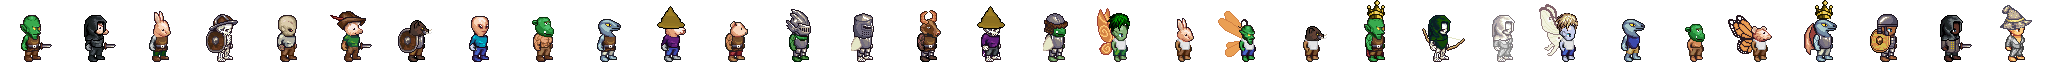
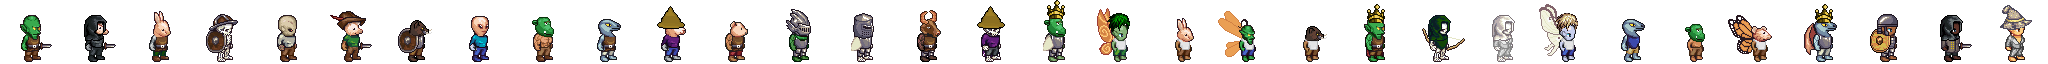
보스 왕관 위치·트롤 왕 머리 수정, 아군·몬스터 발이 바닥에 오도록 위치 조정
Claude-Session: https://claude.ai/code/session_01HhJ2NoNCjk5kaA3GWL7UDs

Changed region(s): [[0.5, 0.0938, 0.5312, 0.5], [0.875, 0.0938, 0.9062, 0.375], [0.6562, 0.0938, 0.6875, 0.375]]

diff --git a/public/index.html b/public/index.html
@@ -1918,10 +1918,10 @@ function xAI(u){   // 동료 자동 행동
 // ── 전투 화면: 도트 캔버스 (왼쪽 몬스터 · 오른쪽 파티) ──
 const XCW = 384, XCH = 216, XGLY = { sword: 'slash', axe: 'slash', dagger: 'slash', fist: 'slash', claw: 'slash', hammer: 'slash', spear: 'slash', arrow: 'slash', cross2: 'slash', paw: 'slash', fire: 'fire', fireball: 'fire', ember: 'fire', ice: 'ice', bolt: 'bolt', chain: 'bolt', star: 'holy', sun: 'holy', crown: 'holy', bell: 'holy', flag: 'holy', orb: 'dark', moon: 'dark', eye: 'dark', skull: 'dark', ghost: 'dark', drop: 'poison', bubble: 'poison', flask: 'poison', tube: 'poison', leaf: 'leaf', tree: 'leaf', flower: 'leaf', burst: 'boom', bomb: 'boom', mine: 'boom', rocket: 'boom', rock: 'boom', gear: 'boom', swirl: 'wind', cloud: 'wind', wave: 'wind', wing: 'wind', note: 'note', note1: 'note', trumpet: 'note', drum: 'note', harp: 'note', heart: 'heal', cross: 'heal', shield: 'buff', tower: 'buff', up: 'buff', clock: 'time', hourglass: 'time' };
 const xFxKind = sk => !sk ? 'slash' : sk.t === 'heal' || sk.t === 'revive' ? 'heal' : sk.t === 'buff' || sk.t === 'mp' ? 'buff' : sk.t === 'deb' ? 'debuff' : XGLY[sk.g] || 'boom';
-const XFS = [[[110, 152]], [[130, 130], [96, 178]], [[138, 118], [100, 154], [138, 190]]], XPS = [[284, 148], [322, 114], [332, 180]], XBOSS_AT = [104, 204];
+const XFS = [[[110, 152]], [[130, 134], [96, 178]], [[138, 134], [100, 160], [138, 192]]], XPS = [[282, 150], [320, 134], [332, 184]], XBOSS_AT = [104, 204];
 let xRaf = 0, xBgs = {};
 let xWpnImg = null; function xWpnSheet(){ if (!xWpnImg){ xWpnImg = new Image(); xWpnImg.src = 'art/weapons.png?v=5'; } return xWpnImg; }
-let xLpcImg = null; function xLpcSheet(){ if (!xLpcImg){ xLpcImg = new Image(); xLpcImg.src = 'art/monsters_lpc.png?v=3'; } return xLpcImg; }
+let xLpcImg = null; function xLpcSheet(){ if (!xLpcImg){ xLpcImg = new Image(); xLpcImg.src = 'art/monsters_lpc.png?v=4'; } return xLpcImg; }
 function xBg(i){   // 지역 배경: 하늘 · 먼 산 · 중간 풍경 · 땅 · 안개 (한 번만 그려 두고 계속 써요)
   if (xBgs[i]) return xBgs[i]; const R = XRG[i], c = document.createElement('canvas'); c.width = XCW; c.height = XCH; const g = c.getContext('2d'), P = R.pal, H = 122;
   const hex = h => [1, 3, 5].map(k => parseInt(h.slice(k, k + 2), 16)), mix = (a, b, t) => a.map((v, k) => Math.round(v + (b[k] - v) * t)), css = (a, al = 1) => `rgba(${a.join(',')},${al})`;

diff --git a/tools/iso/lpc/monster_lpc.py b/tools/iso/lpc/monster_lpc.py
@@ -30,7 +30,7 @@ MON = [  # (id, 몸 체형(g), 층들)
  ('skelknight', 'male', [(10, 'body/bodies/skeleton', None, None), (100, 'head/heads/skeleton/adult', None, None), (20, 'legs/armour/plate/male', None, None), (35, 'torso/armour/plate/male', None, None), (126, 'hat/helmet/greathelm/male', None, None), (95, 'shield/heater/original/paint/fg', None, None), W_SWORD]),
  ('minotaur', 'male', [(10, 'body/bodies/muscular', None, SK('fur_brown')), (100, 'head/heads/minotaur/male', None, None), (20, 'legs/armour/plate/male', None, None), (35, 'torso/armour/leather/male', None, None), W_AXE]),
  ('lich', 'male', [(5, 'cape/tattered/bg', None, CL('purple')), (10, 'body/bodies/skeleton', None, None), (100, 'head/heads/skeleton/adult', None, None), (35, 'torso/clothes/longsleeve/longsleeve', None, CL('purple')), (20, 'legs/pants', None, CL('charcoal')), (126, 'hat/magic/wizard/base', None, None), (110, 'cape/tattered/fg', None, CL('purple')), (90, 'weapon/magic/gnarled/universal/foreground', 'bronze', None)]),
- ('trollking', 'male', [(10, 'body/bodies/muscular', None, SK('pale_green')), (100, 'head/heads/troll/adult', None, None), (20, 'legs/armour/plate/male', None, None), (35, 'torso/armour/plate/male', None, None), (126, 'hat/helmet/barbarian/adult', None, None), (95, 'shield/heater/original/paint/fg', None, None), W_AXE]),
+ ('trollking', 'male', [(10, 'body/bodies/muscular', None, SK('pale_green')), (100, 'head/heads/troll/adult', None, None), (20, 'legs/armour/plate/male', None, None), (35, 'torso/armour/plate/male', None, None), (126, 'hat/formal/crown', None, None), (95, 'shield/heater/original/paint/fg', None, None), W_AXE]),
  ('fairy', 'child', [(5, 'body/wings/pixie/solid', None, None), (10, 'body/bodies/child', None, SK('pale_green')), (100, 'head/heads/human/child', None, SK('pale_green')), (105, 'eyes/human/child/default', 'green', None), (35, 'torso/clothes/shirt/child', None, CL('forest')), (20, 'legs/pants', None, CL('green')), (120, 'hair/messy1', None, HR('green')), (110, 'head/ears/elven/child', None, SK('pale_green'))]),
  ('hare', 'child', [(10, 'body/bodies/child', None, SK('fur_tan')), (100, 'head/heads/rabbit/child', None, None), (35, 'torso/clothes/shirt/child', None, CL('rose')), (20, 'legs/pants', None, CL('brown'))]),
  ('dragonfly', 'child', [(5, 'body/wings/dragonfly/solid', None, None), (10, 'body/bodies/child', None, SK('green')), (100, 'head/heads/goblin/child', None, None), (35, 'torso/clothes/shirt/child', None, CL('teal')), (20, 'legs/pants', None, CL('navy'))]),
@@ -47,6 +47,7 @@ MON = [  # (id, 몸 체형(g), 층들)
  ('shadowman', 'male', [(10, 'body/bodies/teen', None, SK('black')), (100, 'head/heads/human/male', None, SK('black')), (126, 'hat/cloth/hood', None, CL('charcoal')), (35, 'torso/jacket/trench', None, CL('black')), (20, 'legs/pants', None, CL('black')), W_DAG]),
  ('firepriest', 'female', [(10, 'body/bodies/teen', None, SK('amber')), (100, 'head/heads/human/female', None, SK('amber')), (105, 'eyes/human/adult/default', 'orange', None), (35, 'torso/clothes/robe', 'maroon', None), (126, 'hat/magic/celestial/adult', None, None), (90, 'weapon/magic/gnarled/universal/foreground', 'bronze', None)]),
 ]
+CROWN_DY = {'goblinking': 4, 'lizardking': 4}
 def frame(f):
     a = np.array(Image.open(os.path.join(LPC, f)).convert('RGBA'))
     if a.shape[0] == 512:   # 큰 무기(활)는 128칸 — 가운데 64칸만 잘라 써요
@@ -77,7 +78,10 @@ sheet = np.zeros((64, 64 * len(plan), 4), np.uint8)
 for i, (mid, L) in enumerate(plan):
     cell = np.zeros((64, 64, 4), np.uint8)
     al = next((t[1] for t in L if t[0] == 'alpha'), 1)
-    for z, f, rc in sorted((t for t in L if t[0] != 'alpha'), key=lambda t: t[0]): over(cell, recolor(frame(f), rc))
+    for z, f, rc in sorted((t for t in L if t[0] != 'alpha'), key=lambda t: t[0]):
+        fr = recolor(frame(f), rc)
+        if 'formal/crown' in f and mid in CROWN_DY: fr = np.roll(fr, CROWN_DY[mid], axis=0)   # 머리가 낮은 왕은 왕관을 내려 써요
+        over(cell, fr)
     cell[..., 3] = (cell[..., 3] * al).astype(np.uint8)
     sheet[:, i * 64:(i + 1) * 64] = cell
 Image.fromarray(sheet).save(os.path.join(ROOT, 'public', 'art', 'monsters_lpc.png'))
